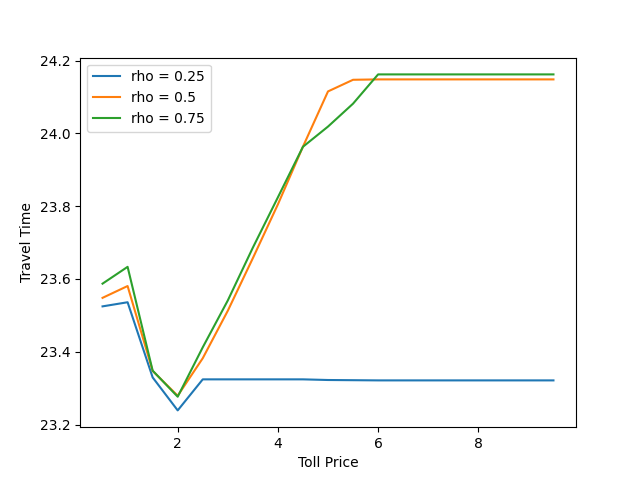
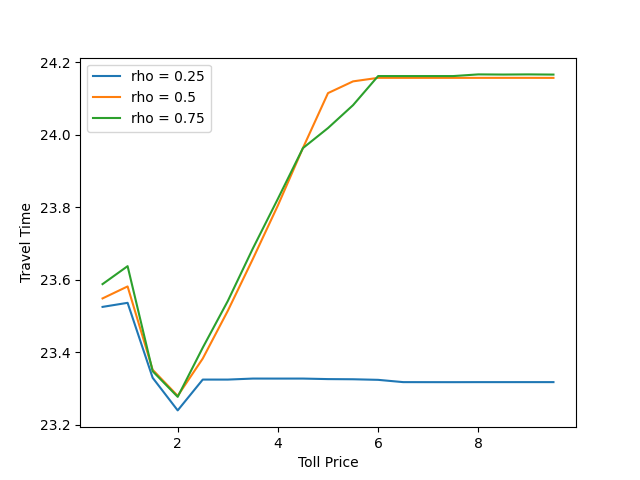
initial value adapt to regime

diff --git a/script.py b/script.py
@@ -68,6 +68,18 @@ def f_int(lbeta, ubeta, gamma_pos):
     ans = torch.sum(F_BETA_GAMMA_LST[lbeta_pos:(ubeta_pos+1),gamma_pos] * beta_gap)
     return ans
 
+def f_int_beta(lgamma, ugamma, beta_pos):
+    global F_BETA_GAMMA_LST
+    if F_BETA_GAMMA_LST is None:
+        populate_f_beta_gamma_lst()
+    gamma_gap = (UGAMMA - LGAMMA) / INT_GRAN
+    lgamma_pos = int(round(((float(lgamma) - LGAMMA) / (UGAMMA - LGAMMA)) * INT_GRAN))
+    ugamma_pos = int(round(((float(ugamma) - LGAMMA) / (UGAMMA - LGAMMA)) * INT_GRAN))
+    lgamma_pos = min(lgamma_pos, INT_GRAN - 1)
+    ugamma_pos = min(ugamma_pos, INT_GRAN - 1)
+    ans = torch.sum(F_BETA_GAMMA_LST[beta_pos, lgamma_pos:(ugamma_pos+1)] * gamma_gap)
+    return ans
+
 def regime_fixedpoint_loss(x, rho, tau):
     # x: toll, pool, ordinary
     c_delta = c_o(1 - x[0] - x[1], 1 - rho) - c_h(x[0], x[1], rho)
@@ -83,7 +95,23 @@ def regime_fixedpoint_loss(x, rho, tau):
     return (x[0] - sigma_toll_rhs) ** 2 + (x[1] - sigma_pool_rhs) ** 2
 
 def solve_regime(rho, tau, max_itr = 1000, eta = 0.1, eps = 1e-7, decay_sched = 500, eta_min = 1e-4):
-    x_init = [0.1, 0.1]
+    pool_cutoff = 0
+    beta_gap = (UBETA - LBETA) / INT_GRAN
+    for beta_pos in range(INT_GRAN):
+        beta = beta_pos * beta_gap + LBETA
+        pool_cutoff += beta_gap * f_int_beta(0, tau * beta / UBETA, beta_pos)
+    pool_cutoff = float(pool_cutoff)
+    c_delta_cutoff = c_o(1 - pool_cutoff, 1 - rho) - c_h(0, pool_cutoff, rho)
+    if tau < min(UGAMMA, UBETA * c_delta_cutoff):
+        x_init = [pool_cutoff / 2, pool_cutoff / 2]
+        regime_type = "B"
+    else:
+        if tau > UBETA * c_delta_cutoff:
+            regime_type = "A1"
+            x_init = [0, pool_cutoff / 2]
+        else:
+            regime_type = "A2"
+            x_init = [0, (1 - pool_cutoff) / 2]
     x = torch.tensor(x_init, requires_grad = True)
     itr = 0
     loss = 1
@@ -116,7 +144,7 @@ def solve_regime(rho, tau, max_itr = 1000, eta = 0.1, eps = 1e-7, decay_sched = 
     x = x.detach().numpy()
     x1, x2 = x[0], x[1]
     x3 = 1 - x1 - x2
-    return (x1, x2, x3), loss_arr
+    return (x1, x2, x3), regime_type, loss_arr
 
 def get_congestion(x1, x2, x3, rho):
     return x3 * c_o(x3, 1 - rho) + (x1 + x2) * c_h(x1, x2, rho)
@@ -127,9 +155,9 @@ def get_revenue(x1, tau):
 rho_lst = [1/4, 2/4, 3/4] #[0.1, 0.3, 0.5, 0.7, 0.8]
 tau_lst = np.arange(0, 10, 0.5)[1:] #np.linspace(0, TAU_BAR, num = 6)[1:]
 arg_lst = list(itertools.product(rho_lst, tau_lst))
-dct = {"rho": [], "tau": [], "x1": [], "x2": [], "x3": [], "loss": [], "congestion": [], "revenue": []}
+dct = {"rho": [], "tau": [], "x1": [], "x2": [], "x3": [], "loss": [], "regime": [], "congestion": [], "revenue": []}
 for (rho, tau) in tqdm(arg_lst):
-    (x1, x2, x3), loss_arr = solve_regime(rho, tau, max_itr = 2000, eta = 1e-2, eps = 1e-6, decay_sched = 2000, eta_min = 1e-8)
+    (x1, x2, x3), regime_type, loss_arr = solve_regime(rho, tau, max_itr = 2000, eta = 1e-2, eps = 1e-6, decay_sched = 2000, eta_min = 1e-8)
     congestion = get_congestion(x1, x2, x3, rho)
     revenue = get_revenue(x1, tau)
     dct["rho"].append(rho)
@@ -138,7 +166,7 @@ for (rho, tau) in tqdm(arg_lst):
     dct["x2"].append(x2)
     dct["x3"].append(x3)
     dct["loss"].append(loss_arr[-1])
-#    dct["regime"].append(regime_type)
+    dct["regime"].append(regime_type)
     dct["congestion"].append(congestion)
     dct["revenue"].append(revenue)
 df = pd.DataFrame.from_dict(dct)
@@ -147,7 +175,7 @@ df.to_csv("results.csv", index = False)
 #loss = regime_fixedpoint_loss(torch.tensor([0.174, 0.075, 0.751]), 0.25, 1) #[0.287, 0.03, 0.683]
 #print(loss)
 
-#(x1, x2, x3), loss_arr = solve_regime(0.25, 1, max_itr = 1000, eta = 1e-3, eps = 1e-5, decay_sched = 2000, eta_min = 1e-7)
+#(x1, x2, x3), regime_type, loss_arr = solve_regime(0.25, 1, max_itr = 1000, eta = 1e-3, eps = 1e-5, decay_sched = 2000, eta_min = 1e-7)
 #print(x1, x2, x3)
 ##print(loss_arr)
 #plt.plot(loss_arr)
